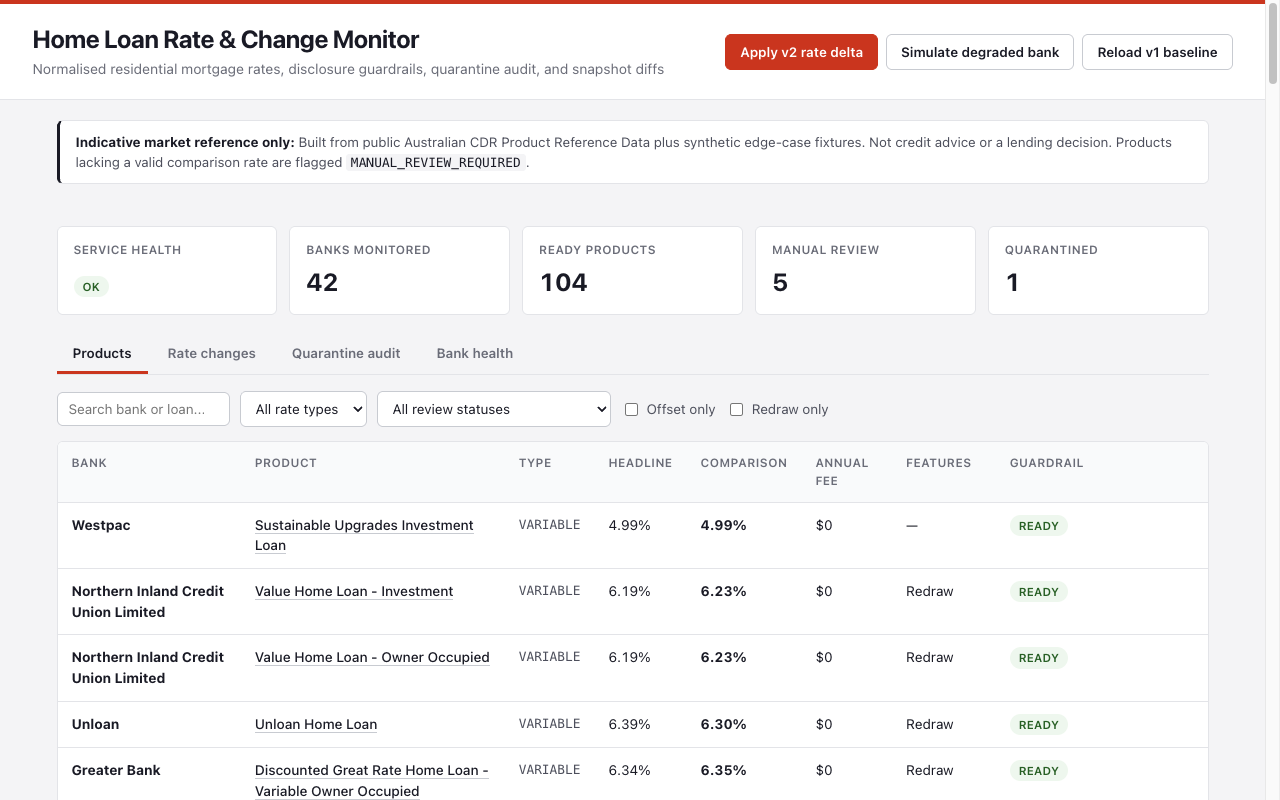
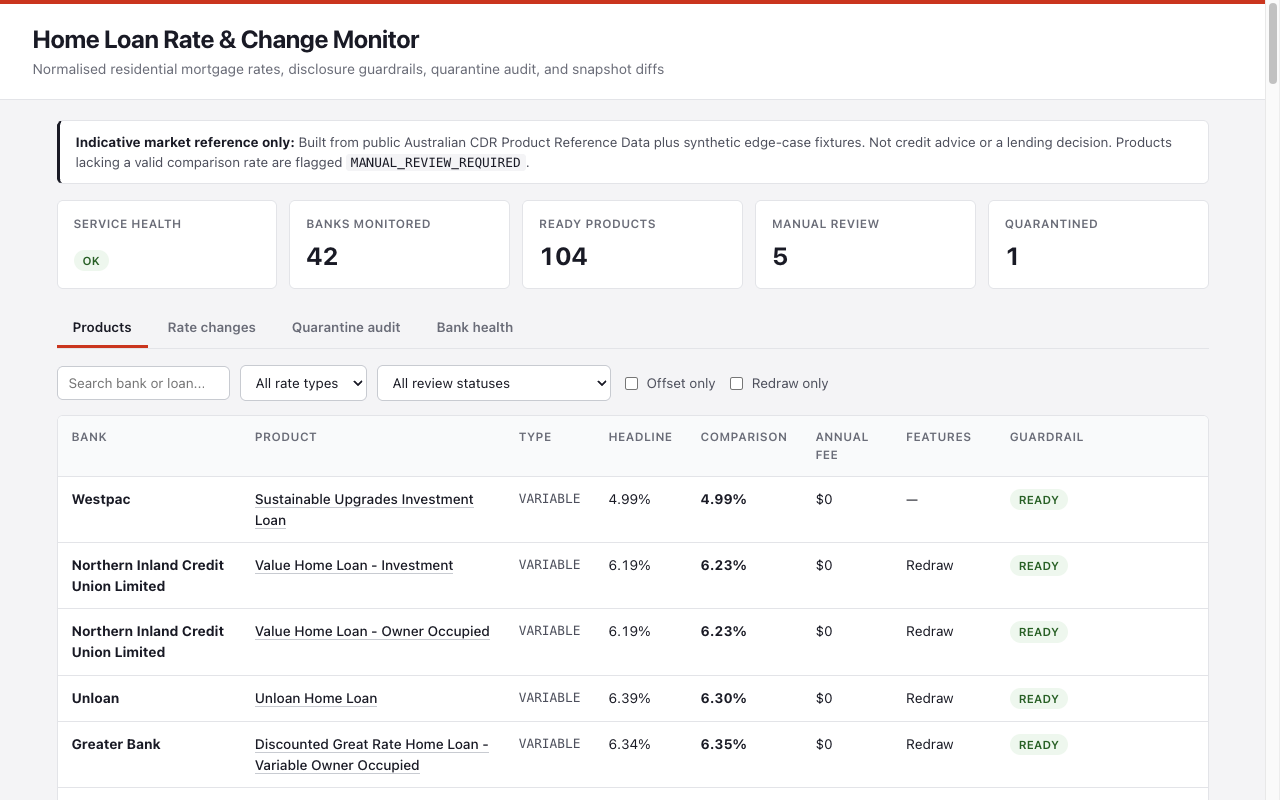
style: remove demo action buttons from header and refresh UI screenshot

diff --git a/public/index.html b/public/index.html
@@ -61,11 +61,6 @@
         font-size: 0.88rem;
         margin-top: 3px;
       }
-      .actions {
-        display: flex;
-        flex-wrap: wrap;
-        gap: 8px;
-      }
       button {
         font-family: inherit;
         font-size: 0.84rem;
@@ -74,24 +69,6 @@
         padding: 9px 14px;
         cursor: pointer;
         transition: background 0.12s ease, border-color 0.12s ease, color 0.12s ease;
-      }
-      button.primary {
-        background: var(--gel-red);
-        color: #ffffff;
-        border: 1px solid var(--gel-red);
-      }
-      button.primary:hover {
-        background: var(--gel-red-hover);
-        border-color: var(--gel-red-hover);
-      }
-      button.faint {
-        background: var(--gel-surface);
-        color: var(--gel-ink);
-        border: 1px solid var(--gel-border-strong);
-      }
-      button.faint:hover {
-        background: var(--gel-surface-subtle);
-        border-color: var(--gel-ink);
       }
       .wrap {
         max-width: 1200px;
@@ -261,11 +238,6 @@
           <h1>Home Loan Rate &amp; Change Monitor</h1>
           <div class="sub">Normalised residential mortgage rates, disclosure guardrails, quarantine audit, and snapshot diffs</div>
         </div>
-        <div class="actions">
-          <button class="primary" onclick="runIngest({ mode: 'snapshot', version: 'v2' })">Apply v2 rate delta</button>
-          <button class="faint" onclick="runIngest({ mode: 'simulate-degrade', bankSlug: 'up', reason: 'Simulated HTTP 406 UnsupportedVersion' })">Simulate degraded bank</button>
-          <button class="faint" onclick="runIngest({ mode: 'snapshot', version: 'v1' })">Reload v1 baseline</button>
-        </div>
       </div>
     </header>
 
@@ -273,8 +245,6 @@
       <div class="notice">
         <strong>Indicative market reference only:</strong> Built from public Australian CDR Product Reference Data plus synthetic edge-case fixtures. Not credit advice or a lending decision. Products lacking a valid comparison rate are flagged <code>MANUAL_REVIEW_REQUIRED</code>.
       </div>
-
-      <div id="toast"></div>
 
       <section class="kpis">
         <div class="kpi"><div class="kpi-label">Service health</div><div class="kpi-val" id="k-health">...</div></div>
@@ -434,7 +404,7 @@
               <td class="num">${fmtPct(c.previousComparisonPct)} → ${fmtPct(c.currentComparisonPct)}</td>
               <td><span class="badge ${cls}">${sign(c.comparisonDeltaBps)}</span></td>
             </tr>`;
-          }).join("") || `<tr><td colspan="6" class="muted">No rate changes yet. Click "Apply v2 rate delta" above to compare snapshots.</td></tr>`;
+          }).join("") || `<tr><td colspan="6" class="muted">No rate changes recorded yet. Ingest a newer snapshot via CLI or API to compare rates.</td></tr>`;
 
         document.getElementById("tb-quarantine").innerHTML =
           quarantine.records.map((q) => `<tr>
@@ -455,19 +425,6 @@
           </tr>`).join("");
 
         await loadProducts();
-      }
-
-      async function runIngest(payload) {
-        const toast = document.getElementById("toast");
-        toast.textContent = "Running operation...";
-        const res = await fetch("/api/ingest", {
-          method: "POST",
-          headers: { "content-type": "application/json" },
-          body: JSON.stringify(payload),
-        });
-        const data = await res.json();
-        toast.textContent = res.ok ? `Completed: ${JSON.stringify(data.summary ?? data)}` : `Error: ${data.message ?? res.status}`;
-        await loadAll();
       }
 
       loadAll();
